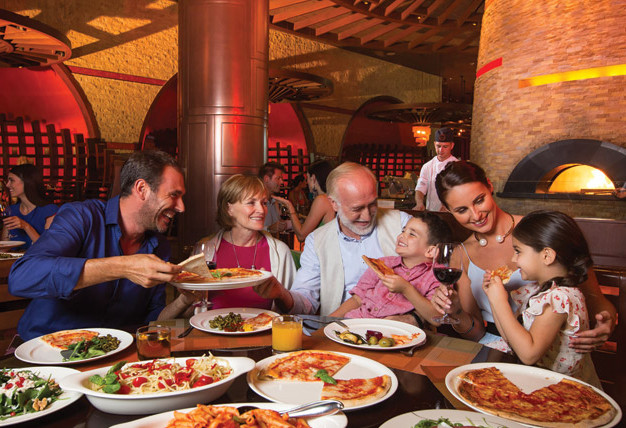
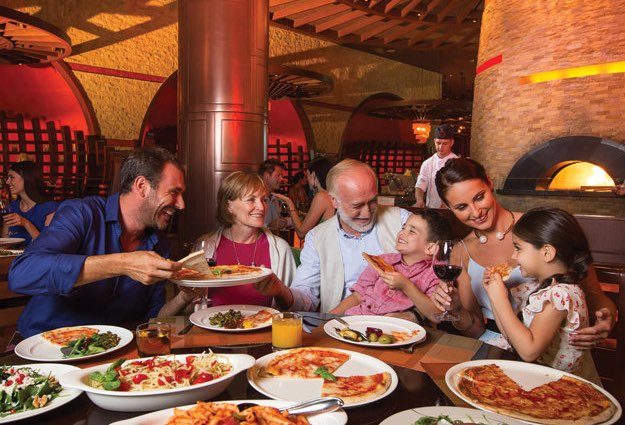
Minor improvements:
Changed width of 'featured' on location page so it lines up with other
elements.
Made supporting images on location page 625 X 425 to remove stretching.

diff --git a/css/location.css b/css/location.css
@@ -6,7 +6,7 @@ div#featured{
   margin: auto;
   height: auto;
   background-color: #333; /*Black*/
-  width: 70%;
+  width: 94%;
   display: flex;
 }
 div#featured img{
@@ -41,5 +41,4 @@ div.subImage p{
 }
 div.subImage img{
   width: 100%;
-  height: 555px;
 }
